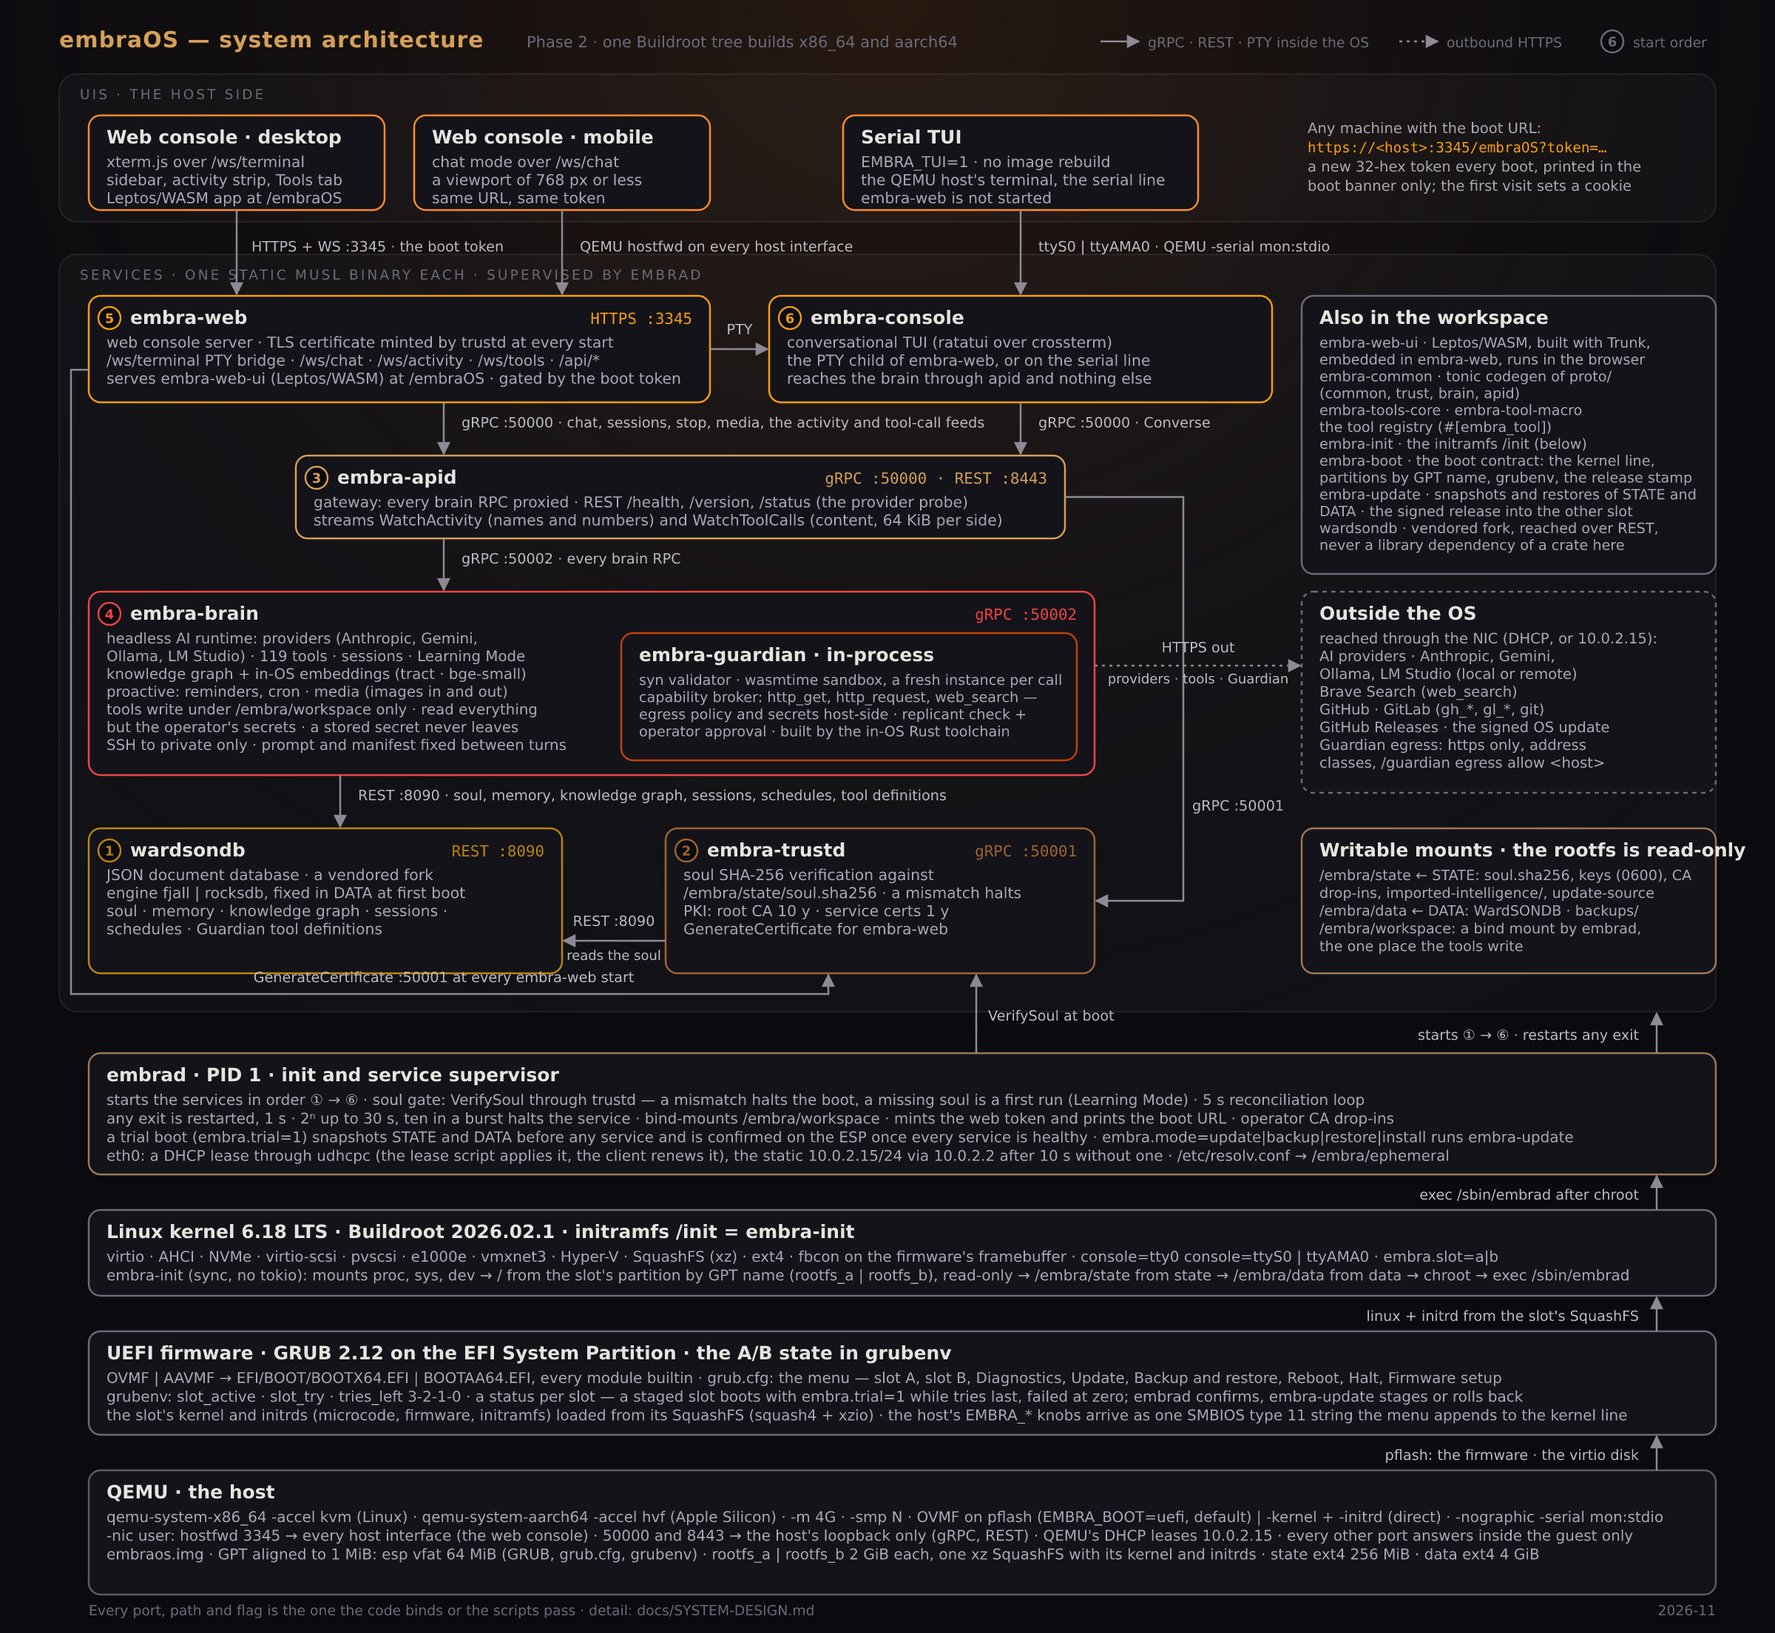
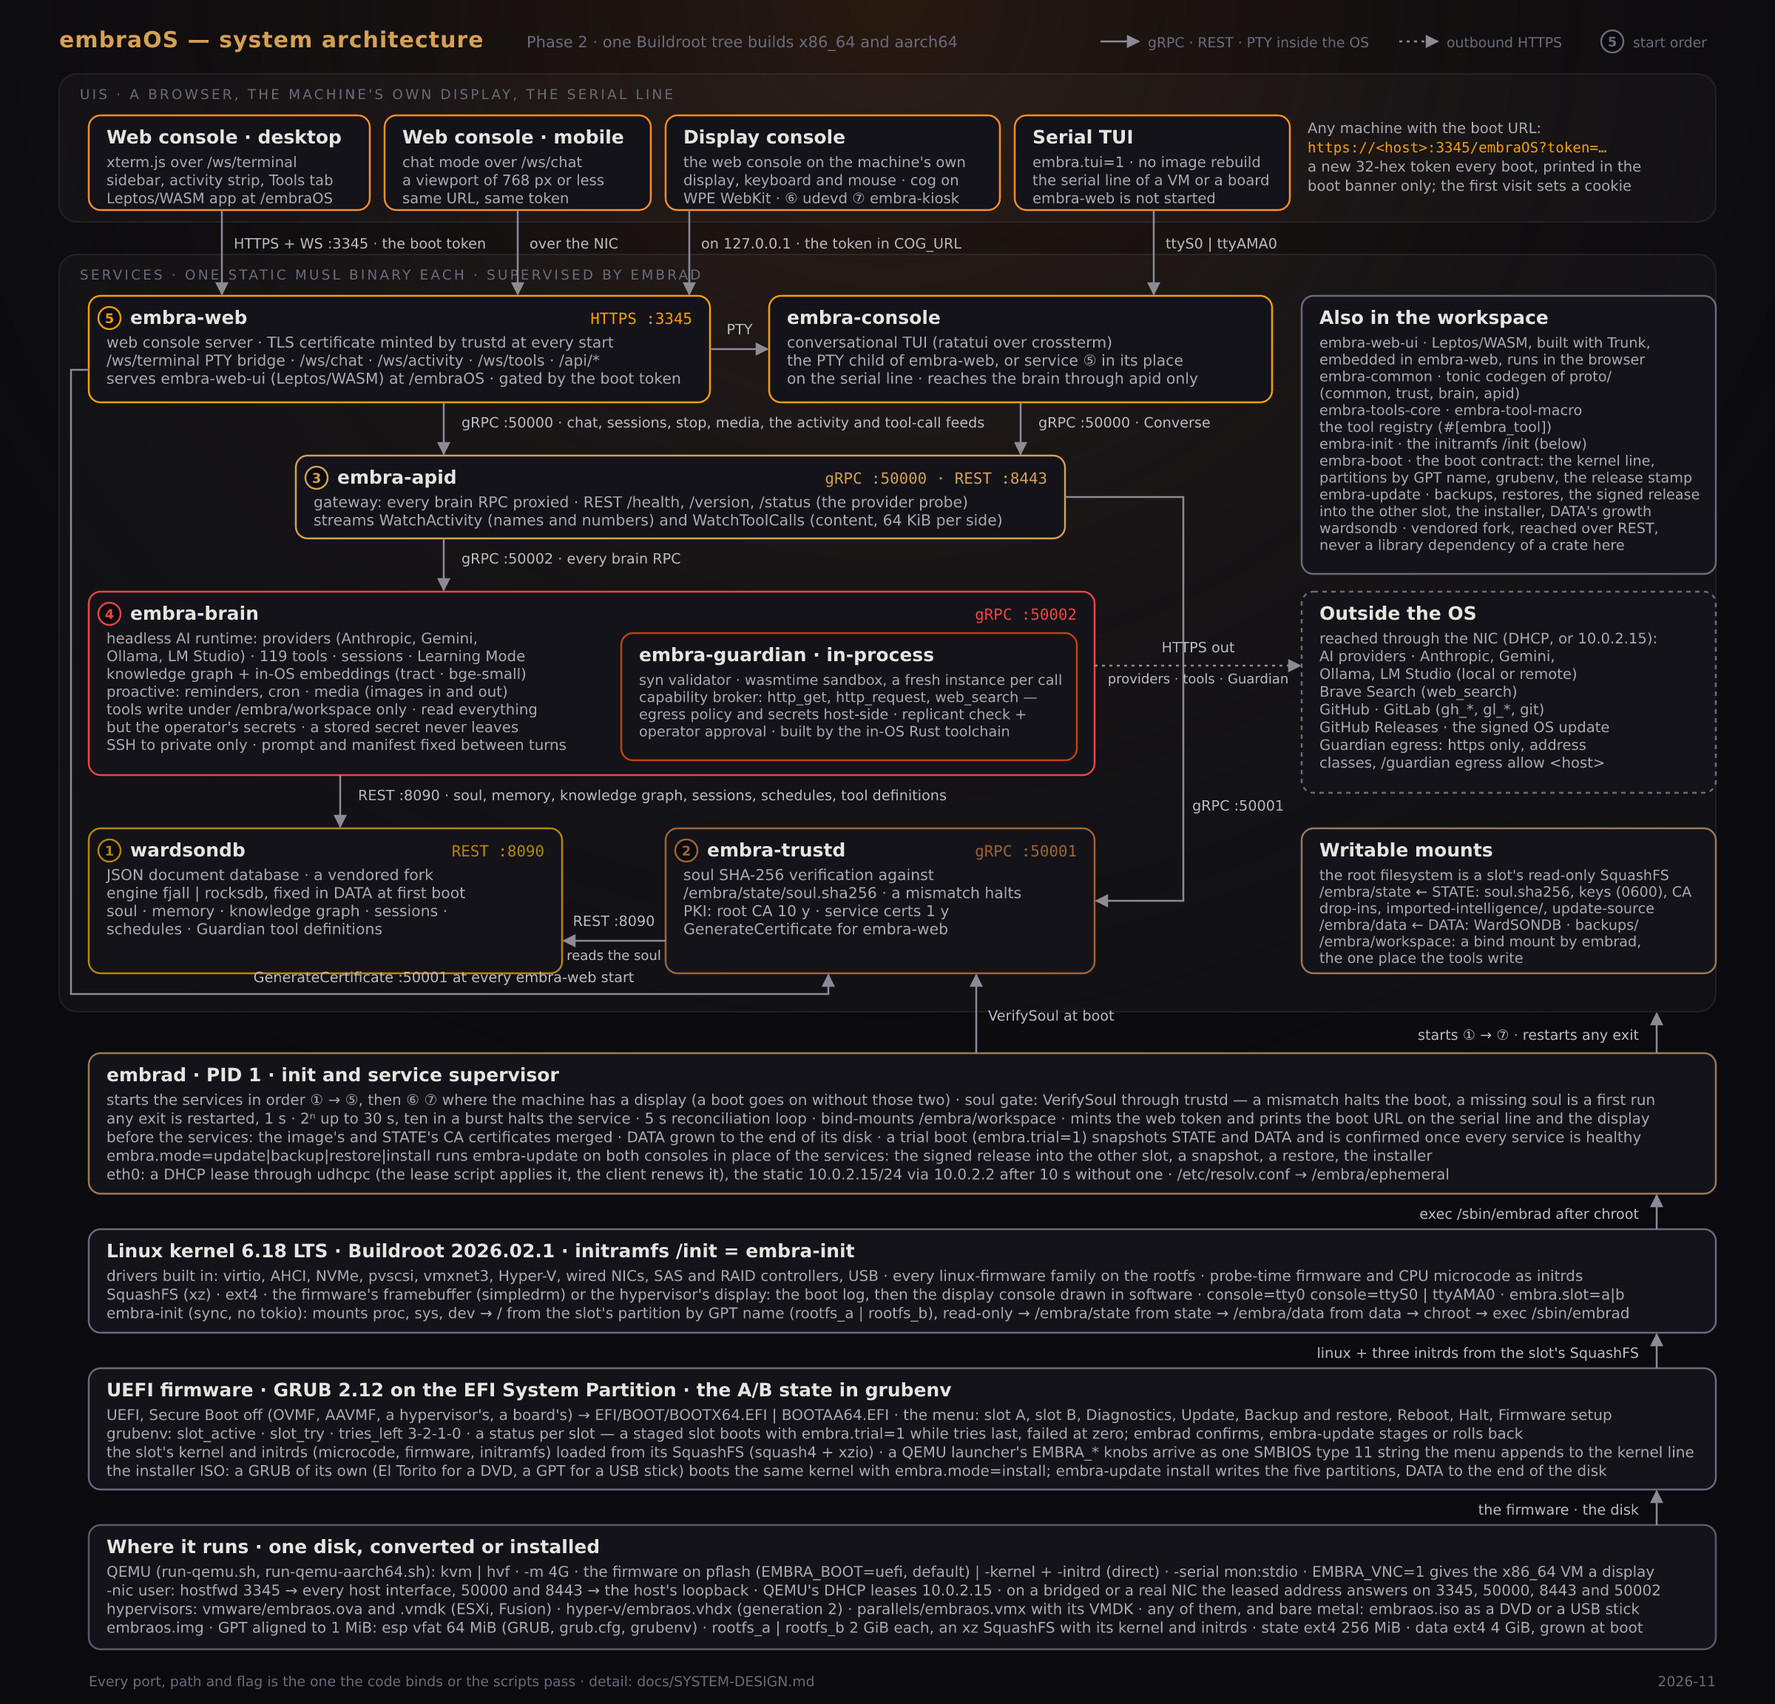
assets: the architecture figure redrawn for wave 6
The figure showed the core wave: two web consoles and the serial TUI, six
numbered services, a kernel line of virtual drivers, and "QEMU · the host"
at the bottom. Redrawn:

- the consoles band has the display console, the web console on the
  machine's own display through cog and WPE WebKit, with its two processes
  in embrad's order (udevd, embra-kiosk) and its arrow into embra-web over
  127.0.0.1;
- the start order is embrad's own: five services, then the display
  console's two where the machine has a display. embra-console carried a
  sixth badge; embrad starts it in embra-web's place on the serial line,
  embra-web starts it as its PTY child otherwise, and its box says so;
- embrad's slab has what runs before the services (the CA merge, DATA's
  growth, a trial boot's snapshot) and the install mode; the kernel's has
  the built-in drivers of real machines, the firmware and the microcode;
  GRUB's has the three initrds and the installer ISO;
- the bottom slab is where the system runs: QEMU with both launchers, the
  converted disks in their folders, the ISO for any of them and for bare
  metal, and the disk's layout with 2 GiB slots.

"Writable mounts · the rootfs is read-only" ran 23 px past its box in the
committed figure; the title is short now and the sentence a line.

A layout check written for this redraw measures every text with the
advance widths of the DejaVu fonts and finds none that leaves its box or
[…]

diff --git a/assets/system-architecture.py b/assets/system-architecture.py
@@ -1,5 +1,5 @@
 #!/usr/bin/env python3
-"""Draw assets/system-architecture.svg and .png: the system after the Phase 2 core wave, from QEMU and the firmware up to the UIs.
+"""Draw assets/system-architecture.svg and .png: the Phase 2 system, from the platforms and the firmware up to the consoles.
 
 The figure is plain SVG written by this script and rasterized at 2x with resvg
 (cargo install resvg), so it renders on a build host without a browser. Run
@@ -15,7 +15,7 @@ import os
 import subprocess
 
 OUT = os.path.dirname(os.path.abspath(__file__))
-W, H = 1200, 1104
+W, H = 1200, 1152
 SCALE = 2
 
 # ---------------------------------------------------------------- palette --
@@ -77,7 +77,7 @@ def arrow(points, label=None, label_at=None, dash=None, anchor="start", label_dy
             text(lx, ly + label_dy + 11.5, label2, size=9.6, fill="#bdbac4", anchor=anchor)
 
 # ------------------------------------------------------------------ canvas --
-emit(f'<svg xmlns="http://www.w3.org/2000/svg" viewBox="0 0 {W} {H}" width="{W}" height="{H}" role="img" aria-label="embraOS system architecture: QEMU, the UEFI firmware and GRUB with the two OS slots, the Linux kernel and embra-init, embrad as PID 1, the six supervised services, and the web and serial UIs on the host side">')
+emit(f'<svg xmlns="http://www.w3.org/2000/svg" viewBox="0 0 {W} {H}" width="{W}" height="{H}" role="img" aria-label="embraOS system architecture: the platforms it runs on, the UEFI firmware and GRUB with the two OS slots, the Linux kernel and embra-init, embrad as PID 1, the supervised services, and the web, display and serial consoles">')
 emit('<defs>'
      '<radialGradient id="glow" cx="50%" cy="0%" r="70%"><stop offset="0" stop-color="#2a1a10" stop-opacity="0.9"/><stop offset="1" stop-color="#0a0a0f" stop-opacity="0"/></radialGradient>'
      f'<marker id="head" viewBox="0 0 10 10" refX="9" refY="5" markerWidth="7" markerHeight="7" orient="auto-start-reverse"><path d="M 0 0 L 10 5 L 0 10 z" fill="{ARROW}"/></marker>'
@@ -95,14 +95,15 @@ text(lx + 32, 32, "gRPC · REST · PTY inside the OS", size=9.4, fill=DIM)
 lx2 = 946
 emit(f'<line x1="{lx2}" y1="28" x2="{lx2+26}" y2="28" stroke="{ARROW}" stroke-width="1.3" stroke-dasharray="2 3" marker-end="url(#head)"/>')
 text(lx2 + 32, 32, "outbound HTTPS", size=9.4, fill=DIM)
-badge(1090, 28, 6, DIM)
+badge(1090, 28, 5, DIM)
 text(1104, 32, "start order", size=9.4, fill=DIM)
 
 # ------------------------------------------------------------------ UI band --
-band(40, 50, 1120, 100, "UIs · the host side")
-box(60, 78, 200, 64, "Web console · desktop", ["xterm.js over /ws/terminal", "sidebar, activity strip, Tools tab", "Leptos/WASM app at /embraOS"], UI)
-box(280, 78, 200, 64, "Web console · mobile", ["chat mode over /ws/chat", "a viewport of 768 px or less", "same URL, same token"], UI)
-box(570, 78, 240, 64, "Serial TUI", ["EMBRA_TUI=1 · no image rebuild", "the QEMU host's terminal, the serial line", "embra-web is not started"], UI)
+band(40, 50, 1120, 100, "UIs · a browser, the machine's own display, the serial line")
+box(60, 78, 190, 64, "Web console · desktop", ["xterm.js over /ws/terminal", "sidebar, activity strip, Tools tab", "Leptos/WASM app at /embraOS"], UI, size=9.8)
+box(260, 78, 180, 64, "Web console · mobile", ["chat mode over /ws/chat", "a viewport of 768 px or less", "same URL, same token"], UI, size=9.8)
+box(450, 78, 226, 64, "Display console", ["the web console on the machine's own", "display, keyboard and mouse · cog on", "WPE WebKit · ⑥ udevd  ⑦ embra-kiosk"], UI, size=9.8)
+box(686, 78, 186, 64, "Serial TUI", ["embra.tui=1 · no image rebuild", "the serial line of a VM or a board", "embra-web is not started"], UI, size=9.8)
 text(884, 90, "Any machine with the boot URL:", size=9.8, fill=DETAIL)
 text(884, 103, "https://<host>:3345/embraOS?token=…", size=9.6, fill=WEB, family=MONO)
 text(884, 116, "a new 32-hex token every boot, printed in the", size=9.8, fill=DETAIL)
@@ -118,9 +119,9 @@ box(60, 200, 420, 72, "embra-web", [
 ], WEB, order=5, port="HTTPS :3345")
 box(520, 200, 340, 72, "embra-console", [
     "conversational TUI (ratatui over crossterm)",
-    "the PTY child of embra-web, or on the serial line",
-    "reaches the brain through apid and nothing else",
-], WEB, order=6)
+    "the PTY child of embra-web, or service ⑤ in its place",
+    "on the serial line · reaches the brain through apid only",
+], WEB)
 # row B
 box(200, 308, 520, 56, "embra-apid", [
     "gateway: every brain RPC proxied · REST /health, /version, /status (the provider probe)",
@@ -176,24 +177,26 @@ box(880, 200, 280, 188, "Also in the workspace", [
     "embra-init · the initramfs /init (below)",
     "embra-boot · the boot contract: the kernel line,",
     "partitions by GPT name, grubenv, the release stamp",
-    "embra-update · snapshots and restores of STATE and",
-    "DATA · the signed release into the other slot",
+    "embra-update · backups, restores, the signed release",
+    "into the other slot, the installer, DATA's growth",
     "wardsondb · vendored fork, reached over REST,",
     "never a library dependency of a crate here",
 ], KERNEL, size=9.6, lead=11.4)
-box(880, 560, 280, 98, "Writable mounts · the rootfs is read-only", [
+box(880, 560, 280, 98, "Writable mounts", [
+    "the root filesystem is a slot's read-only SquashFS",
     "/embra/state ← STATE: soul.sha256, keys (0600), CA",
     "drop-ins, imported-intelligence/, update-source",
     "/embra/data ← DATA: WardSONDB · backups/",
     "/embra/workspace: a bind mount by embrad,",
     "the one place the tools write",
-], SLAB, size=9.6, lead=12)
+], SLAB, size=9.6, lead=11.2)
 
 # ------------------------------------------------------------------ arrows --
 # UIs → embra-web / embra-console
-arrow([(160, 142), (160, 199)], "HTTPS + WS :3345 · the boot token", (170, 174))
-arrow([(380, 142), (380, 199)], "QEMU hostfwd on every host interface", (392, 174))
-arrow([(690, 142), (690, 199)], "ttyS0 | ttyAMA0 · QEMU -serial mon:stdio", (702, 174))
+arrow([(150, 142), (150, 199)], "HTTPS + WS :3345 · the boot token", (158, 172))
+arrow([(350, 142), (350, 199)], "over the NIC", (358, 172))
+arrow([(466, 142), (466, 199)], "on 127.0.0.1 · the token in COG_URL", (474, 172))
+arrow([(780, 142), (780, 199)], "ttyS0 | ttyAMA0", (788, 172))
 # web ↔ console over the PTY
 arrow([(480, 236), (519, 236)], "PTY", (500, 230), anchor="middle")
 # web / console → apid
@@ -221,33 +224,45 @@ def slab(y, h, title, color, lines, order_note=None):
     for i, line in enumerate(lines):
         text(72, y + 35 + i * 12.6, line, size=10, fill=DETAIL)
 
-slab(712, 82, "embrad · PID 1 · init and service supervisor", SLAB, [
-    "starts the services in order ① → ⑥ · soul gate: VerifySoul through trustd — a mismatch halts the boot, a missing soul is a first run (Learning Mode) · 5 s reconciliation loop",
-    "any exit is restarted, 1 s · 2ⁿ up to 30 s, ten in a burst halts the service · bind-mounts /embra/workspace · mints the web token and prints the boot URL · operator CA drop-ins",
-    "a trial boot (embra.trial=1) snapshots STATE and DATA before any service and is confirmed on the ESP once every service is healthy · embra.mode=update|backup|restore|install runs embra-update",
+# The four slabs stack with a 24 px gap for the connector's label; a slab is
+# 35 px to its first line and 12.6 px a line after it.
+Y_EMBRAD, H_EMBRAD = 712, 95
+Y_KERNEL, H_KERNEL = Y_EMBRAD + H_EMBRAD + 24, 70
+Y_GRUB, H_GRUB = Y_KERNEL + H_KERNEL + 24, 82
+Y_HOST, H_HOST = Y_GRUB + H_GRUB + 24, 84
+assert Y_HOST + H_HOST + 37 == H, "the canvas ends 37 px under the last slab"
+
+slab(Y_EMBRAD, H_EMBRAD, "embrad · PID 1 · init and service supervisor", SLAB, [
+    "starts the services in order ① → ⑤, then ⑥ ⑦ where the machine has a display (a boot goes on without those two) · soul gate: VerifySoul through trustd — a mismatch halts the boot, a missing soul is a first run",
+    "any exit is restarted, 1 s · 2ⁿ up to 30 s, ten in a burst halts the service · 5 s reconciliation loop · bind-mounts /embra/workspace · mints the web token and prints the boot URL on the serial line and the display",
+    "before the services: the image's and STATE's CA certificates merged · DATA grown to the end of its disk · a trial boot (embra.trial=1) snapshots STATE and DATA and is confirmed once every service is healthy",
+    "embra.mode=update|backup|restore|install runs embra-update on both consoles in place of the services: the signed release into the other slot, a snapshot, a restore, the installer",
     "eth0: a DHCP lease through udhcpc (the lease script applies it, the client renews it), the static 10.0.2.15/24 via 10.0.2.2 after 10 s without one · /etc/resolv.conf → /embra/ephemeral",
 ])
-slab(818, 58, "Linux kernel 6.18 LTS · Buildroot 2026.02.1 · initramfs /init = embra-init", KERNEL, [
-    "virtio · AHCI · NVMe · virtio-scsi · pvscsi · e1000e · vmxnet3 · Hyper-V · SquashFS (xz) · ext4 · fbcon on the firmware's framebuffer · console=tty0 console=ttyS0 | ttyAMA0 · embra.slot=a|b",
+slab(Y_KERNEL, H_KERNEL, "Linux kernel 6.18 LTS · Buildroot 2026.02.1 · initramfs /init = embra-init", KERNEL, [
+    "drivers built in: virtio, AHCI, NVMe, pvscsi, vmxnet3, Hyper-V, wired NICs, SAS and RAID controllers, USB · every linux-firmware family on the rootfs · probe-time firmware and CPU microcode as initrds",
+    "SquashFS (xz) · ext4 · the firmware's framebuffer (simpledrm) or the hypervisor's display: the boot log, then the display console drawn in software · console=tty0 console=ttyS0 | ttyAMA0 · embra.slot=a|b",
     "embra-init (sync, no tokio): mounts proc, sys, dev → / from the slot's partition by GPT name (rootfs_a | rootfs_b), read-only → /embra/state from state → /embra/data from data → chroot → exec /sbin/embrad",
 ])
-slab(900, 70, "UEFI firmware · GRUB 2.12 on the EFI System Partition · the A/B state in grubenv", KERNEL, [
-    "OVMF | AAVMF → EFI/BOOT/BOOTX64.EFI | BOOTAA64.EFI, every module builtin · grub.cfg: the menu — slot A, slot B, Diagnostics, Update, Backup and restore, Reboot, Halt, Firmware setup",
+slab(Y_GRUB, H_GRUB, "UEFI firmware · GRUB 2.12 on the EFI System Partition · the A/B state in grubenv", KERNEL, [
+    "UEFI, Secure Boot off (OVMF, AAVMF, a hypervisor's, a board's) → EFI/BOOT/BOOTX64.EFI | BOOTAA64.EFI · the menu: slot A, slot B, Diagnostics, Update, Backup and restore, Reboot, Halt, Firmware setup",
     "grubenv: slot_active · slot_try · tries_left 3-2-1-0 · a status per slot — a staged slot boots with embra.trial=1 while tries last, failed at zero; embrad confirms, embra-update stages or rolls back",
-    "the slot's kernel and initrds (microcode, firmware, initramfs) loaded from its SquashFS (squash4 + xzio) · the host's EMBRA_* knobs arrive as one SMBIOS type 11 string the menu appends to the kernel line",
+    "the slot's kernel and initrds (microcode, firmware, initramfs) loaded from its SquashFS (squash4 + xzio) · a QEMU launcher's EMBRA_* knobs arrive as one SMBIOS type 11 string the menu appends to the kernel line",
+    "the installer ISO: a GRUB of its own (El Torito for a DVD, a GPT for a USB stick) boots the same kernel with embra.mode=install; embra-update install writes the five partitions, DATA to the end of the disk",
 ])
-slab(994, 84, "QEMU · the host", QEMU, [
-    "qemu-system-x86_64 -accel kvm (Linux) · qemu-system-aarch64 -accel hvf (Apple Silicon) · -m 4G · -smp N · OVMF on pflash (EMBRA_BOOT=uefi, default) | -kernel + -initrd (direct) · -nographic -serial mon:stdio",
-    "-nic user: hostfwd 3345 → every host interface (the web console) · 50000 and 8443 → the host's loopback only (gRPC, REST) · QEMU's DHCP leases 10.0.2.15 · every other port answers inside the guest only",
-    "embraos.img · GPT aligned to 1 MiB: esp vfat 64 MiB (GRUB, grub.cfg, grubenv) · rootfs_a | rootfs_b 2 GiB each, one xz SquashFS with its kernel and initrds · state ext4 256 MiB · data ext4 4 GiB",
+slab(Y_HOST, H_HOST, "Where it runs · one disk, converted or installed", QEMU, [
+    "QEMU (run-qemu.sh, run-qemu-aarch64.sh): kvm | hvf · -m 4G · the firmware on pflash (EMBRA_BOOT=uefi, default) | -kernel + -initrd (direct) · -serial mon:stdio · EMBRA_VNC=1 gives the x86_64 VM a display",
+    "-nic user: hostfwd 3345 → every host interface, 50000 and 8443 → the host's loopback · QEMU's DHCP leases 10.0.2.15 · on a bridged or a real NIC the leased address answers on 3345, 50000, 8443 and 50002",
+    "hypervisors: vmware/embraos.ova and .vmdk (ESXi, Fusion) · hyper-v/embraos.vhdx (generation 2) · parallels/embraos.vmx with its VMDK · any of them, and bare metal: embraos.iso as a DVD or a USB stick",
+    "embraos.img · GPT aligned to 1 MiB: esp vfat 64 MiB (GRUB, grub.cfg, grubenv) · rootfs_a | rootfs_b 2 GiB each, an xz SquashFS with its kernel and initrds · state ext4 256 MiB · data ext4 4 GiB, grown at boot",
 ])
 # embrad → trustd (the soul gate)
-arrow([(660, 712), (660, 659)], "VerifySoul at boot", (668, 690), label_dy=0)
+arrow([(660, Y_EMBRAD), (660, 659)], "VerifySoul at boot", (668, 690), label_dy=0)
 # slab connectors on the right
-arrow([(1120, 712), (1120, 685)], "starts ① → ⑥ · restarts any exit", (1108, 703), anchor="end", label_dy=0)
-arrow([(1120, 818), (1120, 795)], "exec /sbin/embrad after chroot", (1108, 811), anchor="end", label_dy=0)
-arrow([(1120, 900), (1120, 877)], "linux + initrd from the slot's SquashFS", (1108, 893), anchor="end", label_dy=0)
-arrow([(1120, 994), (1120, 971)], "pflash: the firmware · the virtio disk", (1108, 987), anchor="end", label_dy=0)
+arrow([(1120, Y_EMBRAD), (1120, 685)], "starts ① → ⑦ · restarts any exit", (1108, Y_EMBRAD - 9), anchor="end", label_dy=0)
+arrow([(1120, Y_KERNEL), (1120, Y_EMBRAD + H_EMBRAD + 1)], "exec /sbin/embrad after chroot", (1108, Y_KERNEL - 7), anchor="end", label_dy=0)
+arrow([(1120, Y_GRUB), (1120, Y_KERNEL + H_KERNEL + 1)], "linux + three initrds from the slot's SquashFS", (1108, Y_GRUB - 7), anchor="end", label_dy=0)
+arrow([(1120, Y_HOST), (1120, Y_GRUB + H_GRUB + 1)], "the firmware · the disk", (1108, Y_HOST - 7), anchor="end", label_dy=0)
 
 # ------------------------------------------------------------------ footer --
 text(60, H - 12, "Every port, path and flag is the one the code binds or the scripts pass · detail: docs/SYSTEM-DESIGN.md", size=9.4, fill=DIM)

diff --git a/README.md b/README.md
@@ -3,7 +3,7 @@
 </p>
 
 <p align="center">
-  <img src="assets/system-architecture.png" alt="embraOS system architecture — from QEMU through the firmware, GRUB and the two OS slots, the kernel and embrad to the six services and the web and serial UIs" width="100%">
+  <img src="assets/system-architecture.png" alt="embraOS system architecture — from the platforms it runs on through the firmware, GRUB and the two OS slots, the kernel and embrad to the services and the web, display and serial consoles" width="100%">
 </p>
 
 # embraOS
